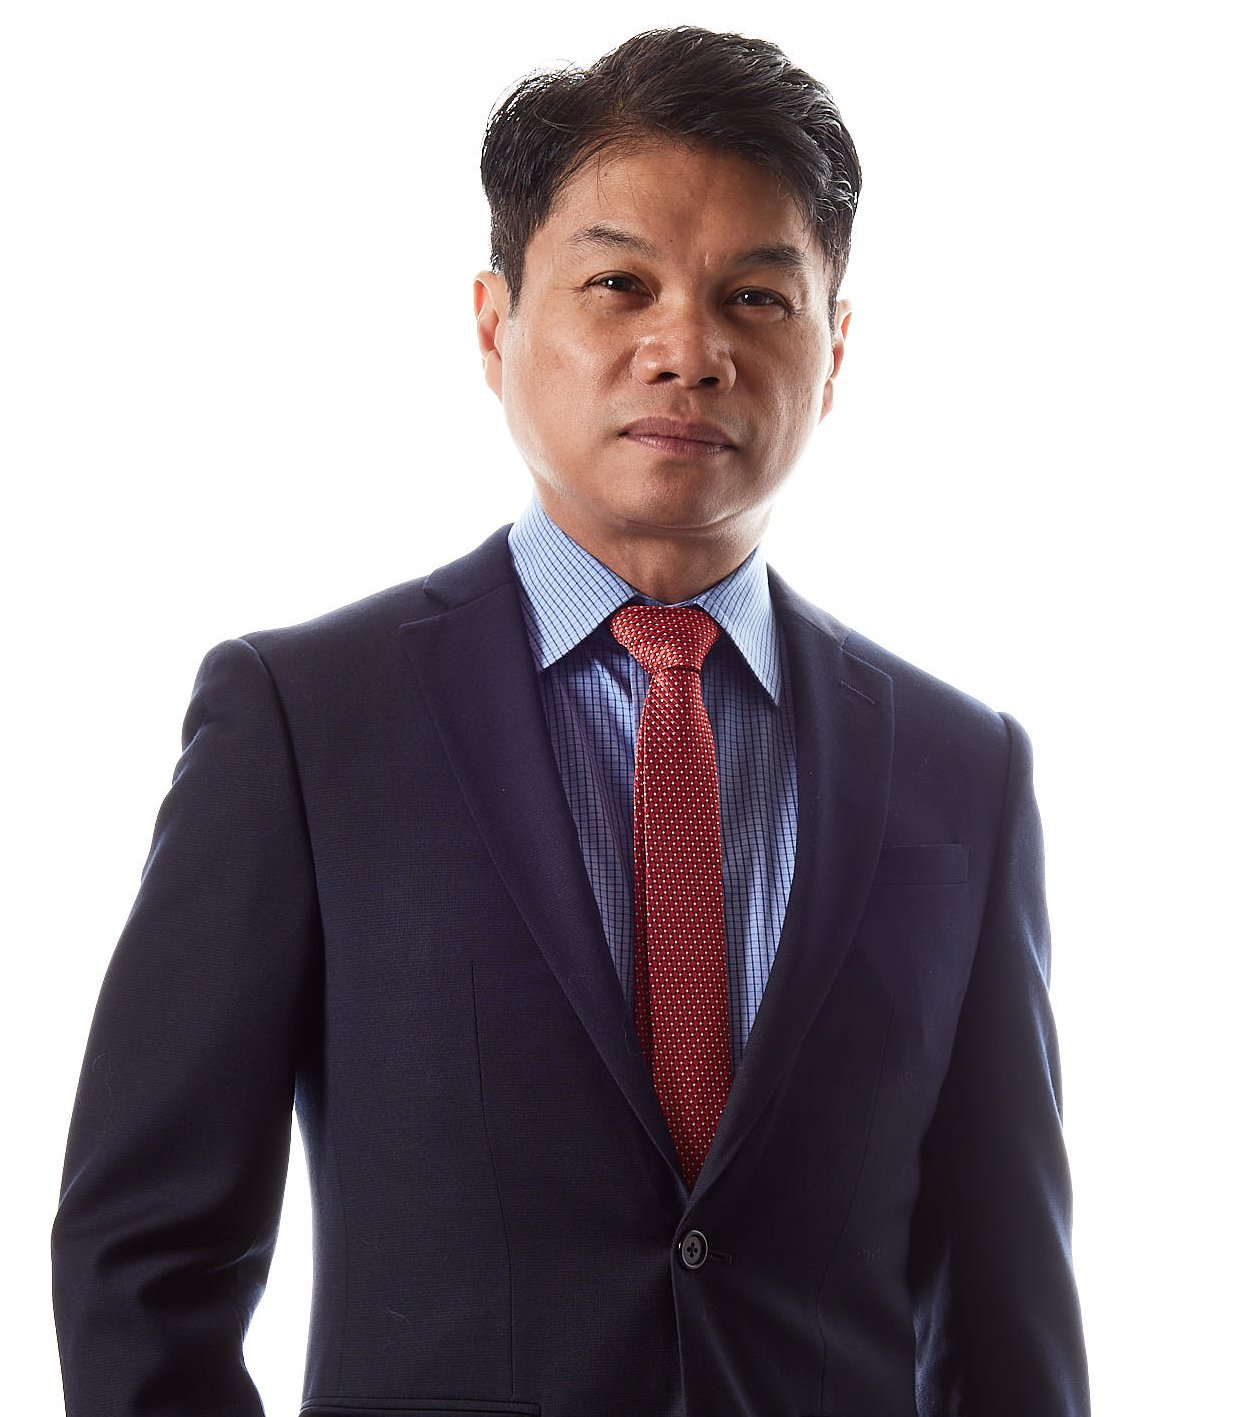
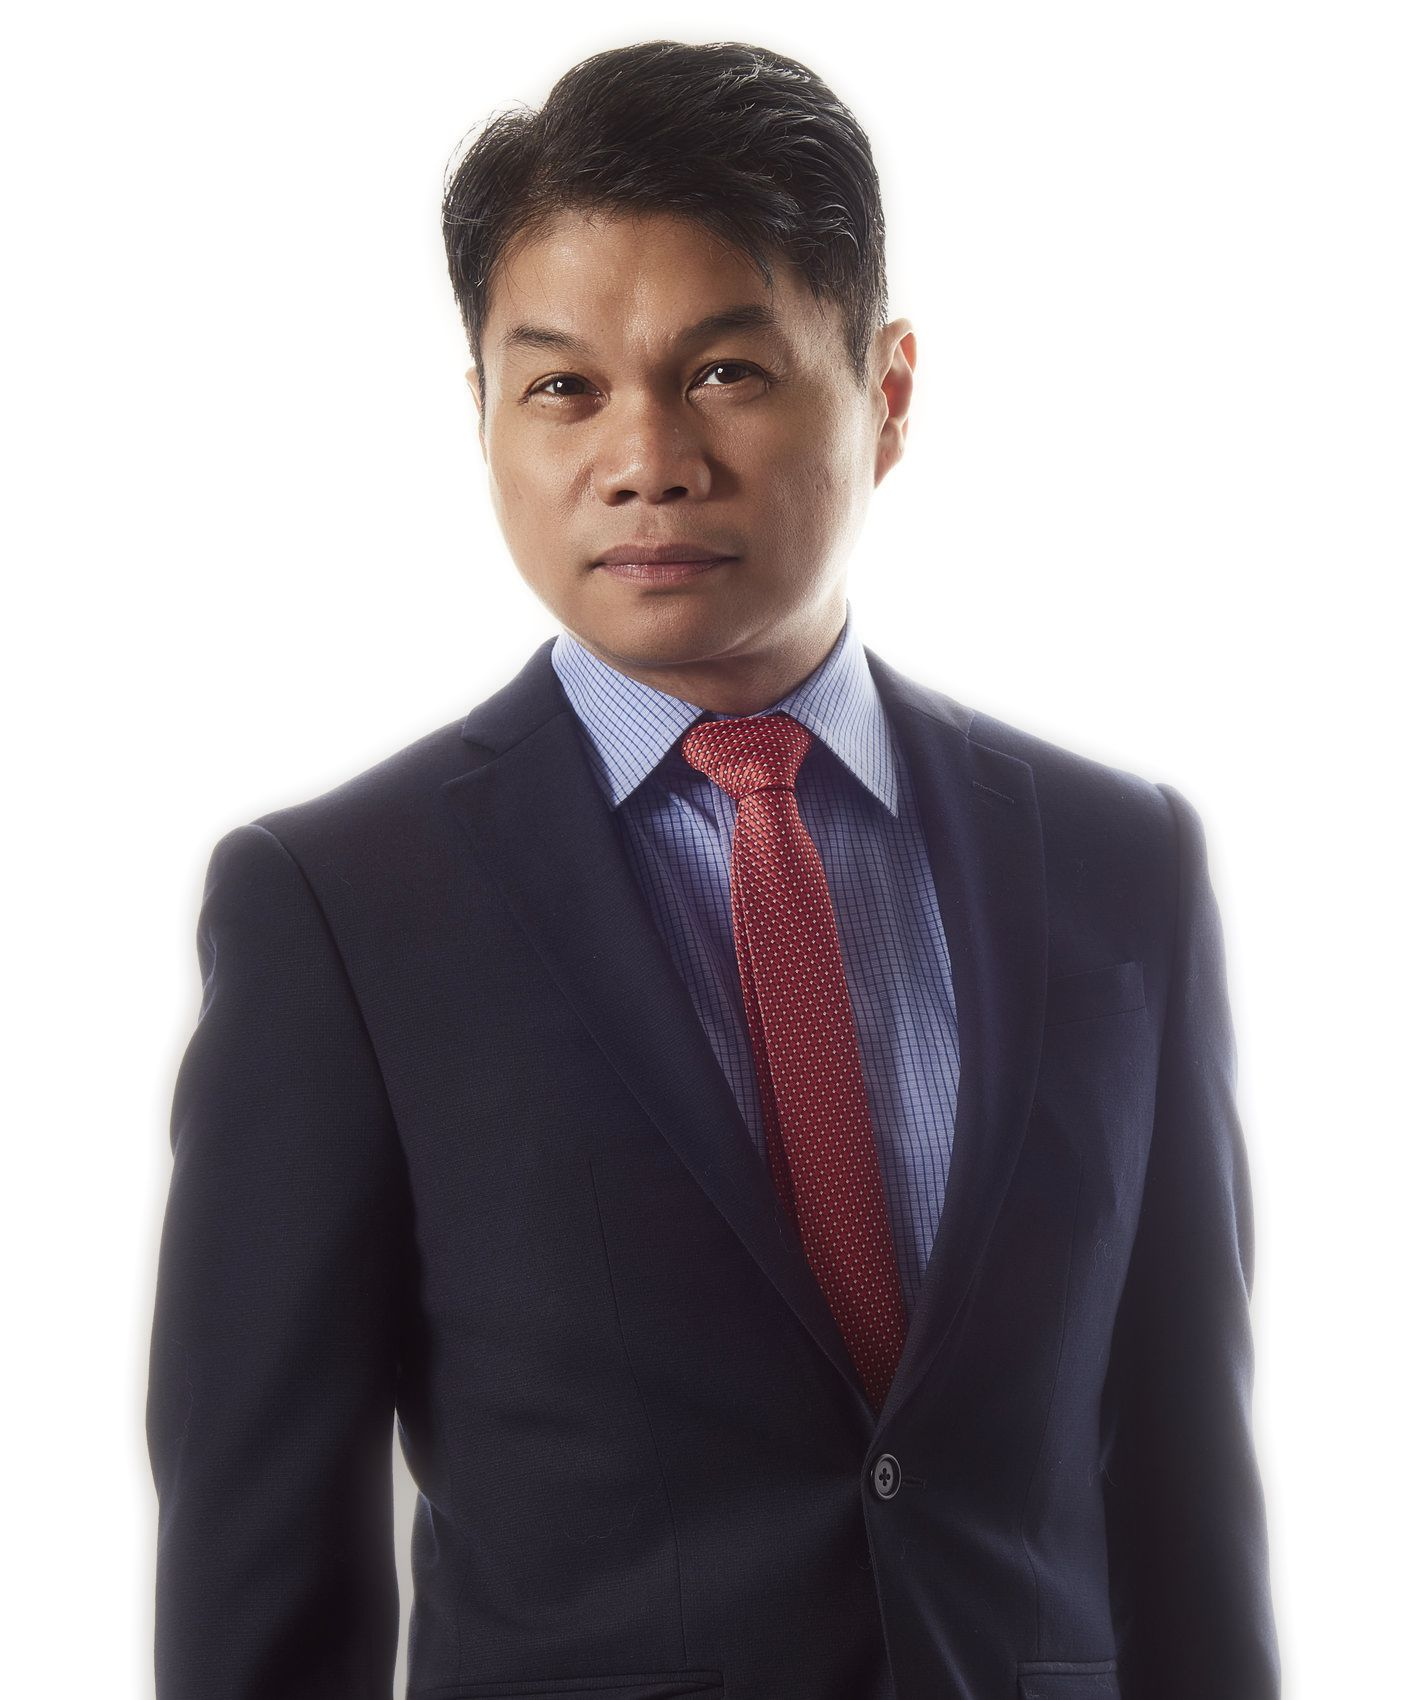
Pic changed

diff --git a/index.html b/index.html
@@ -98,7 +98,7 @@
 			<div class="row">
 
 				<div class="col-md-5">
-					<img class="aboutImage" src="img/portfolio/RyanHS01.jpg" alt="RyanSotto">
+					<img class="aboutImage" src="img/portfolio/RyanHS07.jpg" alt="RyanSotto">
 				</div>
 
 				<div class="col-md-7" id="aboutThis">
